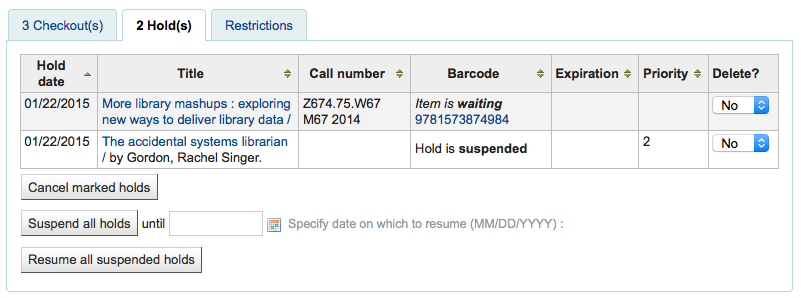
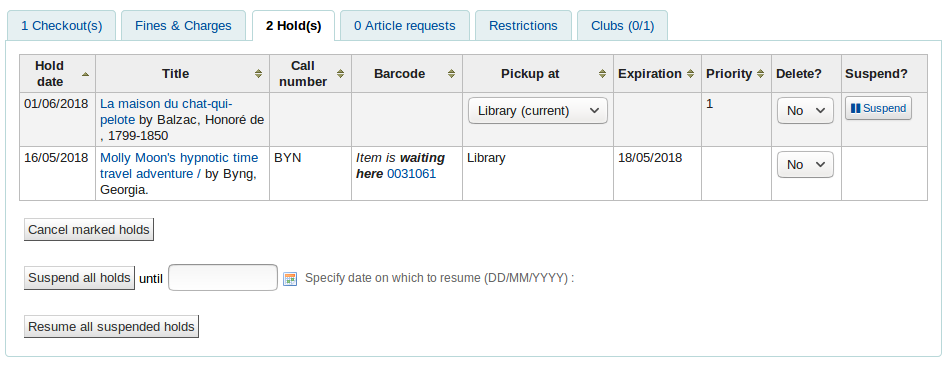
Bug 13228: Documentation of restrictions tab does not show OVERDUE restriction
Adds the missing tab descriptions in the patron chapter (fines, holds, article requests, clubs).

Changed region(s): [[0.0, 0.0, 0.9988, 0.9362], [0.0, 0.9664, 0.9988, 0.9966], [0.4994, 0.4832, 0.6554, 0.5134]]

diff --git a/source/patrons.rst b/source/patrons.rst
@@ -1389,23 +1389,27 @@ checkouts'
 Details
 ~~~~~~~~~~~~~~~~~~~~~~~~~~~~
 
-Staff members can access their own account details by clicking their
-username in the top right of the staff client and choosing 'My account'
+     **Note**
 
-|image442|
+     Staff members can access their own account details by clicking their
+     username in the top right of the staff client and choosing 'My account'
 
-All patron information will appear on the Details tab. This includes all
+     |image442|
+
+All patron information will appear in the Details tab. This includes all
 the contact information, notes, custom patron attributes, messaging
-preferences, etc entered when adding the patron.
+preferences, etc. entered when adding the patron.
+
+|image1347|
 
 In the case of patrons who are marked as 'Child' or 'Professional' and
-their Guarantors additional information will appear on their record.
+their guarantors additional information will appear on their record.
 
--  A child patron will list their Guarantor
+-  A child patron will list their guarantor
 
    |image443|
 
--  On the Guarantor's record, all children and/or professionals will be
+-  On the guarantor's record, all children and/or professionals will be
    listed
 
    |image444|
@@ -1418,12 +1422,76 @@ Circulation summary
 Below the patron's information on the details screen is a tabbed display
 of the items they have checked out, overdue, and on hold.
 
+Checkouts
+''''''''''''''''''''''''''''''''''''''''''
+
+The first tab shows the items the patron currently has checked out.
+
 |image445|
 
-If they have family at the library staff can see what the other family
+Relatives' checkouts
+''''''''''''''''''''''''''''''''''''''''''
+
+If they have family at the library, staff can see what the other family
 members have checked out.
 
 |image446|
+
+Fines & charges
+'''''''''''''''''''''''''''''''''''''''''
+
+The Fines & charges tab will show for all patrons, even those who
+don't owe anything.
+
+If the patron does owe money to the library, the tab will show the
+total amount, without any details. To see the details, go to the
+:ref:`fines tabs <fines-label>`.
+
+|image1348|
+
+Holds
+'''''''''''''''''''''''''''''''''''''''''
+
+If the patron has holds, the number of holds will appear on this tab's
+title and the details will appear in the tab.
+
+|image490|
+
+     **Note**
+
+     The barcode and call number will only appear on item-level holds or
+     holds that have been confirmed. Record-level holds that are not
+     waiting to be picked up will not have barocdes or call numbers.
+
+From here you can manage the patron's holds: change the pickup library,
+cancel or suspend holds.
+
+     **Note**
+
+     You will only be able to suspend holds if the :ref:`SuspendHoldsIntranet`
+     system preference is set to "Allow".
+
+     **Note**
+
+     If, when suspending a hold, you want to be able to set a date at which to
+     automatically resume the hold, set the :ref:`AutoResumeSuspendedHolds`
+     system preference to "Allow" and make sure the :ref:`unsuspend_holds cron
+     job <unsuspend-holds-label>` is activated.
+
+Article requests
+'''''''''''''''''''''''''''''''''''''''''''''
+
+If the :ref:`ArticleRequests` system preference is enabled, and the circulation
+rules allow it, the patrons will be able to request articles, either through the
+OPAC or in the staff interface.
+
+The details of the patron's request, and its status, are visible in this
+tab.
+
+|image1349|
+
+Restrictions
+''''''''''''''''''''''''''''''''''''''''''''
 
 The Restrictions tab will show for all patrons. If the patron has no
 restrictions you will see that on the tab.
@@ -1439,6 +1507,15 @@ Using the 'Add manual restriction' button you can add a restriction to
 the patron record from here.
 
 |image449|
+
+Clubs
+'''''''''''''''''''''''''''''''''''''''''''
+
+If you use :ref:`patron clubs <Patron-clubs-label>, patrons will have a tab
+in their record indicating which club they are enrolled in, if any.
+
+|image1350|
+
 
 .. _fines-label:
 

diff --git a/source/images.rst b/source/images.rst
@@ -559,7 +559,6 @@
 .. |image559| image:: images/circ/cancelholds.png
 .. |image560| image:: images/circ/holdconfirmtransfer.png
 .. |image561| image:: images/circ/holdconfirm.png
-.. |image562| image:: images/circ/holdpatronrec.png
 .. |image563| image:: images/circ/holditem.png
 .. |image564| image:: images/circ/holdwaitingwarn.png
 .. |image565| image:: images/circ/transfer.png
@@ -1335,6 +1334,7 @@
 .. |image1344| image:: images/admin/globalprefs/opaclogininstructions.png
 .. |image1345| image:: images/admin/globalprefs/stafflogininstructions.png
 .. |image1346| image:: images/patrons/quickadd.png
+<<<<<<< d16e2b0576f44b71c0d5146bca39acb52352c860
 .. |image1347| image:: images/patrons/houseboundtab.png
 .. |image1348| image:: images/patrons/houseboundprofile.png
 .. |image1349| image:: images/patrons/houseboundroles.png
@@ -1347,3 +1347,8 @@
 .. |image1356| image:: images/serials/batchrenew.png
 .. |image1357| image:: images/coursereserves/additem.png
 .. |image1358| image:: images/coursereserves/batchadditems.png
+=======
+.. |image1347| image:: images/patrons/patrondetails.png
+.. |image1348| image:: images/patrons/finescharges.png
+.. |image1349| image:: images/patron/articlesrequests.png
+>>>>>>> Bug 13228: Documentation of restrictions tab does not show OVERDUE restriction
